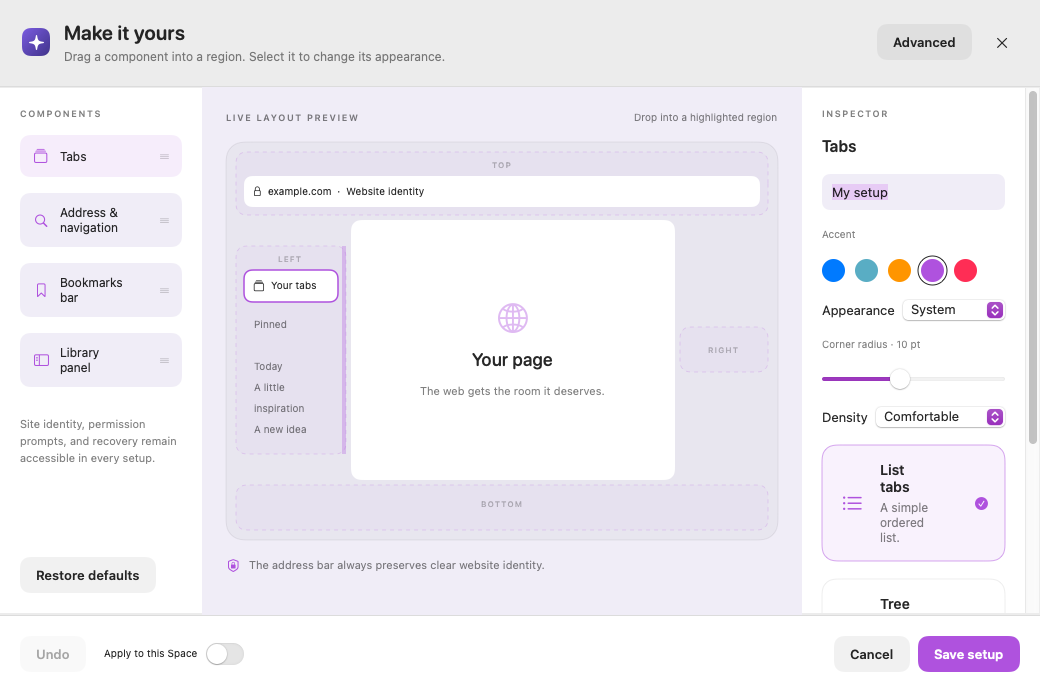
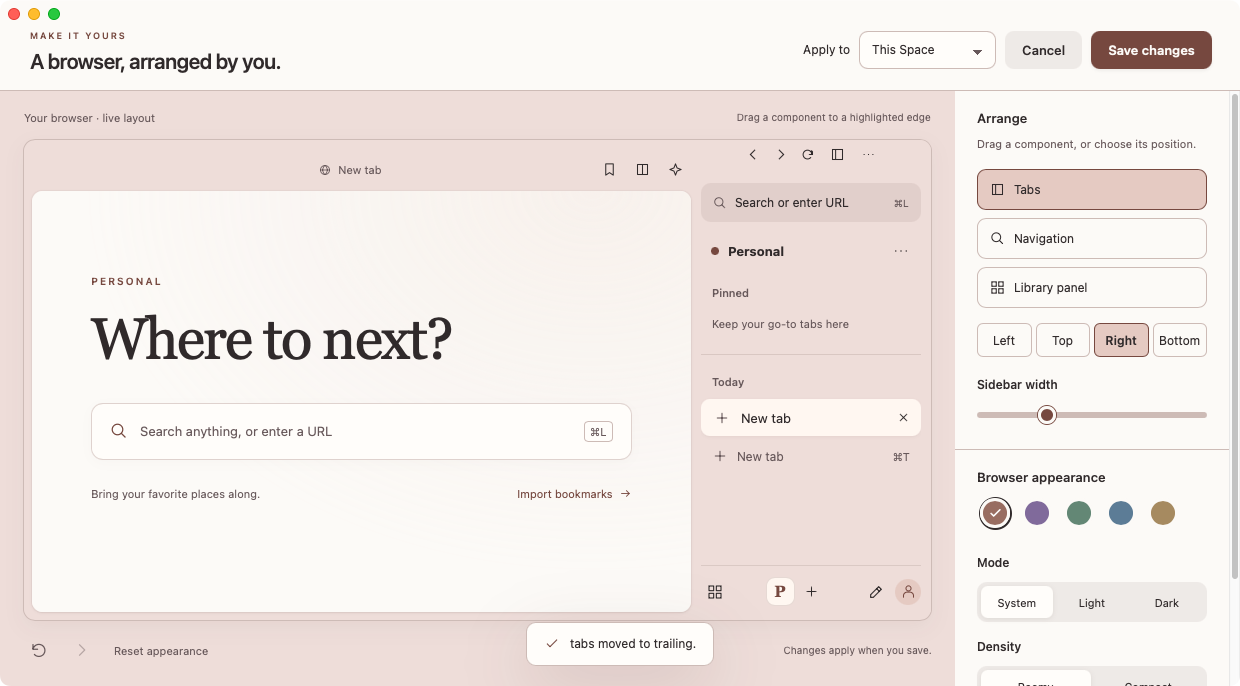
Polish compact panels and add full-width live layout preview

diff --git a/Sources/NeutrinoApp/RustShellAcceptance.swift b/Sources/NeutrinoApp/RustShellAcceptance.swift
@@ -53,6 +53,7 @@ import NeutrinoCore
         for screen in ["settings","modules","extensions","library"] {
             try await action(["op":"screen","value":screen,"section":"general"],web:web)
             guard (try await web.evaluateJavaScript(screen == "library" ? "!!document.querySelector('.library-panel')" : "!!document.querySelector('.utility-screen')")) as? Bool == true else { throw ValidationError("The \(screen) interface did not render.") }
+            try await recordScrollGeometry(web, label:screen)
             await AppSmokeTest.captureWindow(window,to:output.appendingPathComponent("Neutrino-\(screen).png"))
             try await action(["op":"escape"],web:web)
         }
@@ -109,6 +110,13 @@ import NeutrinoCore
         }
         _ = try await evaluatePage(page,"document.getElementById('neutrino-input-probe').style.opacity='0'; 'ok'")
         await AppSmokeTest.captureWindow(window,to:output.appendingPathComponent("Neutrino-editor-live-\(page.engineID.rawValue).png"))
+        try await recordScrollGeometry(web, label:"editor-\(page.engineID.rawValue)")
+        try await action(["op":"editor-preview-size"],web:web)
+        let expanded = try await web.evaluateJavaScript("document.querySelector('.editing-preview .native-page').getBoundingClientRect().width") as? Double
+        guard let expanded, expanded > preview + 80, model.activeWebTab === page,
+              abs(page.nativeView.bounds.width-expanded) < 3 else { throw ValidationError("Expanding the live preview lost its document or geometry.") }
+        await AppSmokeTest.captureWindow(window,to:output.appendingPathComponent("Neutrino-editor-expanded-\(page.engineID.rawValue).png"))
+        try await action(["op":"editor-preview-size"],web:web)
         try await action(["op":"editor-cancel"],web:web)
         guard model.activeWebTab === page,
               (page.nativeView.superview as? EngineViewContainer)?.isPreviewing == false else { throw ValidationError("Cancel did not restore browsing on the original page.") }
@@ -117,6 +125,10 @@ import NeutrinoCore
         try await Task.sleep(for:.milliseconds(100))
         guard try await inputProbeCount(page) > before else { throw ValidationError("Closing the editor did not restore page keyboard input.") }
         _ = try await evaluatePage(page,"document.getElementById('neutrino-input-probe')?.remove(); 'ok'")
+    }
+    private static func recordScrollGeometry(_ web:WKWebView,label:String) async throws {
+        let value = try await web.evaluateJavaScript("JSON.stringify([...document.querySelectorAll('*')].filter(e=>['auto','scroll'].includes(getComputedStyle(e).overflowY)&&e.scrollHeight>e.clientHeight).map(e=>({element:e.tagName+'.'+e.className,height:e.clientHeight,content:e.scrollHeight,top:e.scrollTop,rect:e.getBoundingClientRect().toJSON()})))")
+        print("Neutrino Rust scroll geometry \(label): \(value)")
     }
     private static func sendKey(to window:NSWindow) {
         for type in [NSEvent.EventType.keyDown,.keyUp] {

diff --git a/crates/neutrino-shell/assets/shell.css b/crates/neutrino-shell/assets/shell.css
@@ -52,3 +52,5 @@ body.dragging-tab .drag-hint{display:block}body.dragging-tab .empty-pins{outline
 @container(max-width:420px){.start-surface{padding:18px}.start-inner h1{font-size:32px;letter-spacing:-1px;margin-bottom:20px}.start-search{padding:12px;gap:8px}.start-search kbd{display:none}.start-hint{flex-direction:column;align-items:flex-start}.start-footer>span{display:none}}
 @container(max-height:340px){.start-surface{padding:14px}.start-inner{padding:4px 0 18px}.start-inner>.eyebrow{margin-bottom:10px}.start-inner h1{font-size:28px;margin-bottom:14px}.start-search{min-height:44px;padding:11px}.start-hint{margin-top:12px}.start-footer{font-size:10px}}
 .library-tabs button.selected{background:var(--accent-soft);color:var(--accent);box-shadow:inset 0 -2px var(--accent);border-radius:7px}.rail-footer .avatar>.icon{width:15px;height:15px}.rail-top{align-items:flex-start}.rail-top>.icon-button,.rail-top>.rail-navigation{margin-top:0}.rail-top .icon-button{height:28px}.import-card{display:grid;grid-template-columns:44px 1fr 18px;min-height:112px;text-align:left;gap:6px 14px}.import-card .import-symbol{grid-row:1/3}.import-card>strong{grid-column:2}.import-card>span:not(.import-symbol){grid-column:2}.import-card>.icon{grid-column:3;grid-row:1/3}
+
+.utility-screen[data-screen=extensions]{height:auto;max-height:100%;width:min(620px,100%)}.utility-screen[data-screen=extensions] .extensions-content{flex:0 1 auto}.preview-caption{align-items:center;min-height:32px;padding-bottom:10px}.preview-size{display:inline-flex;align-items:center;gap:6px;padding:5px 7px;margin:-5px -7px -5px 0;border-radius:6px;color:var(--muted);font-size:11px;white-space:nowrap}.preview-size .icon{width:13px;height:13px}.editor-inspector[hidden]{display:none}.editor-toast{bottom:76px;pointer-events:none;max-width:calc(100% - 70px)}

diff --git a/crates/neutrino-shell/src/render.rs b/crates/neutrino-shell/src/render.rs
@@ -258,7 +258,7 @@ pub fn render(s: &Shell) -> Markup {
     };
     html! {div class="app-shell" data-mode=(mode) data-accent=(accent) data-density=(text(&s.config()["theme"],"density")) {
         @if flag(&s.snapshot,"downloadsWindow"){main class="downloads-window"{header{h1{"Downloads"}(button("Close downloads","escape","close"))}(library(s))}} @else if s.onboarding(){(setup(s))} @else if s.screen=="editor"{(editor(s))} @else {(browser(s,false))
-            @if !["browse","library"].contains(&s.screen.as_str()) {div class="screen-scrim"{section class="utility-screen" role="dialog" aria-modal="true" aria-label=(s.screen.as_str()){
+            @if !["browse","library"].contains(&s.screen.as_str()) {div class="screen-scrim"{section class="utility-screen" data-screen=(s.screen.as_str()) role="dialog" aria-modal="true" aria-label=(s.screen.as_str()){
                 header class="utility-header"{div{div class="eyebrow"{"NEUTRINO"}h1{(match s.screen.as_str(){"settings"=>"Settings","library"=>"Your library","modules"=>"Make more of your browser","extensions"=>"Extensions","assistant"=>"A little help","reader"=>"Reader","recovery"=>"Recovery",_=>"Neutrino"})}}(button("Close","escape","close"))}
                 (utility(s))
             }}}
@@ -266,7 +266,7 @@ pub fn render(s: &Shell) -> Markup {
         @if s.palette{(palette(s))}
         @if !s.menu.is_empty(){(menu(s))}
         @let notice=if !s.notice.is_empty(){s.notice.as_str()}else{text(&s.snapshot,"notice")};
-        @if !notice.is_empty(){div class="toast" role="status"{(icon("check"))span{(notice)}@if notice.starts_with("Tab moved.") && !s.tab_undo.is_empty(){button data-op="undo-tabs"{"Undo"}}}}
+        @if !notice.is_empty(){div class=(if s.screen=="editor"{"toast editor-toast"}else{"toast"}) role="status"{(icon("check"))span{(notice)}@if notice.starts_with("Tab moved.") && !s.tab_undo.is_empty(){button data-op="undo-tabs"{"Undo"}}}}
     }}
 }
 fn setup(s: &Shell) -> Markup {
@@ -316,13 +316,13 @@ fn swatches(s: &Shell, setup: bool) -> Markup {
     html! {div class="swatches" role="group" aria-label="Accent color"{@for (value,label) in [("rose","Rose"),("purple","Iris"),("teal","Sage"),("blue","Ocean"),("orange","Sand")] {button class=(format!("swatch {} {}",value,if current==value{"selected"}else{""})) data-op=(if setup{"setup-field"}else{"editor-value"}) data-key="accent" data-value=(value) aria-label=(label) aria-pressed=((current==value).to_string()) title=(label){@if current==value{(icon("check"))}}}}}
 }
 fn editor(s: &Shell) -> Markup {
-    html! {div class="editor" {
+    html! {div class=(if s.expanded_preview{"editor expanded-preview"}else{"editor"}) {
         header class="editor-header"{div{span class="eyebrow"{"MAKE IT YOURS"}h1{"A browser, arranged by you."}}div class="editor-actions"{label class="save-scope"{span{"Apply to"}select data-scope="true" aria-label="Where to apply appearance"{option value="true" selected[s.apply_space]{"This Space"}option value="false" selected[!s.apply_space]{"Browser default"}}}(action("Cancel","escape",false))(action("Save changes","editor-save",true))}}
-        div class="editor-body"{section class="editor-stage" aria-label="Layout preview"{div class="preview-caption"{span{"Your browser · live layout"}span{"Drag a component to a highlighted edge"}}
+        div class="editor-body"{section class="editor-stage" aria-label="Layout preview"{div class="preview-caption"{span{"Your browser · live layout"}button class="preview-size" data-op="editor-preview-size" aria-expanded=(s.expanded_preview.to_string()) aria-controls="appearance-controls"{(icon(if s.expanded_preview{"sidebar"}else{"external"}))(if s.expanded_preview{"Show controls"}else{"Expand preview"})}}
             div class="editor-preview"{div class="preview-canvas" inert="" {(browser(s,true))}@for region in ["leading","trailing","top","bottom"]{div class=(format!("dock-target dock-{region}")) data-dock=(region){span{(match region{"leading"=>"Left","trailing"=>"Right","top"=>"Top",_=>"Bottom"})}}}}
             div class="editor-recovery"{button class="icon-button" data-op="editor-undo" title="Undo appearance change" aria-label="Undo appearance change" disabled[s.undo.is_empty()]{(icon("undo"))}button class="icon-button" data-op="editor-redo" title="Redo appearance change" aria-label="Redo appearance change" disabled[s.redo.is_empty()]{(icon("forward"))}button data-op="editor-reset"{"Reset appearance"}span{"Changes apply when you save."}}
         }
-        aside class="editor-inspector"{div class="inspector-section"{h2{"Arrange"}p{"Drag a component, or choose its position."}
+        aside class="editor-inspector" id="appearance-controls" hidden[s.expanded_preview]{div class="inspector-section"{h2{"Arrange"}p{"Drag a component, or choose its position."}
             @for (component,label,glyph) in [("tabs","Tabs","sidebar"),("navigation","Navigation","search"),("panels","Library panel","grid")] {div class=(if s.edit_component==component{"component selected"}else{"component"}) draggable="true" data-component=(component){button data-op="editor-select" data-value=(component){(icon(glyph))span{(label)}(icon("grip"))}}}
             div class="position-controls" role="group" aria-label="Component position"{@for (region,label) in [("leading","Left"),("top","Top"),("trailing","Right"),("bottom","Bottom")] { @let valid=s.edit_component=="tabs" || s.edit_component=="navigation"&&["top","bottom"].contains(&region) || s.edit_component=="panels"&&["leading","trailing"].contains(&region);button class=(if text(&s.config()["layout"],match s.edit_component.as_str(){"tabs"=>"tabs","navigation"=>"navigation",_=>"sidebar"})==region{"selected"}else{""}) aria-pressed=((text(&s.config()["layout"],match s.edit_component.as_str(){"tabs"=>"tabs","navigation"=>"navigation",_=>"sidebar"})==region).to_string()) data-op="dock" data-component=(s.edit_component.as_str()) data-region=(region) disabled[!valid]{(label)}}}
             @if s.edit_component=="tabs"{label class="field"{span{"Sidebar width"}input type="range" min="200" max="340" step="4" value=(s.config()["layout"]["tabsWidth"].as_f64().unwrap_or(240.)) data-editor="tabsWidth" aria-label="Sidebar width";}}
@@ -490,6 +490,10 @@ fn module_glyph(id: &str) -> &str {
 }
 fn module_description(module: &Value) -> &str {
     match text(module, "id") {
+        "org.neutrino.reader" => "Read articles in a quiet, focused view.",
+        "org.neutrino.focus" => {
+            "Give the page more room. Press Escape to bring your controls back."
+        }
         "org.neutrino.resource-monitor" => "See CPU and memory use while you browse.",
         "org.neutrino.memory-monitor" => "See how your Mac’s memory is being used.",
         _ => text(module, "description"),

diff --git a/crates/neutrino-shell/src/state.rs b/crates/neutrino-shell/src/state.rs
@@ -38,6 +38,7 @@ pub struct Shell {
     pub name: String,
     pub sidebar_hidden: bool,
     pub edit_component: String,
+    pub expanded_preview: bool,
     pub apply_space: bool,
     pub setup_busy: bool,
     adjustment: String,
@@ -64,6 +65,7 @@ impl Default for Shell {
             name: String::new(),
             sidebar_hidden: false,
             edit_component: "tabs".into(),
+            expanded_preview: false,
             apply_space: true,
             setup_busy: false,
             adjustment: String::new(),
@@ -404,6 +406,7 @@ impl Shell {
                     self.apply_space = request["value"].as_bool().unwrap_or(true);
                 }
                 "editor-value" => self.edit_value(&request),
+                "editor-preview-size" => self.expanded_preview = !self.expanded_preview,
                 "editor-end-adjustment" => {}
                 "dock" => self.dock(&request),
                 "editor-undo" => {

diff --git a/docs/GAUNTLET.md b/docs/GAUNTLET.md
@@ -27,6 +27,8 @@ Method adapted from [Gauntlet Loop](https://github.com/robonuggets/gauntlet-loop
 | `246343f` | Per-coordinator input suspension reaches CEF focus/mouse handling and the WK responder boundary. Width gestures are continuous and coalesce to one Undo step. Preview content responds to its available area and supports inert scrolling. Library selection, profile glyph, import card alignment and module labels revised. Split geometry acceptance now compares the actual pane, rather than the first pane in the view tree. | Native keyboard positive/negative controls and parent-window mouse rejection added; real Chromium mouse targeting is additionally checked through its child-window input flag, not independently proved by those parent-directed events. Verification pending. |
[1 lines of base64/hex data omitted]
 
+The final visual critic reviewed valid OS-composited `5e0e85c` screenshots: resting shell alignment, narrow containment, dark appearance, Library selection, import alignment, Profile glyph and duplicate editor navigation were resolved. The critic still preferred Arc's shell/split grouping and import composition; the limited Settings comparison favored Neutrino's displayed controls. Remaining findings were dense split pages in the 1024 px editor, adjacent native scroll tracks, technical Reader copy, a toast covering the editor footer, repeated split titles, and excess space in Extensions. Follow-up work adds an expanded live preview, shorter module descriptions, a compact Extensions panel and a toast above the footer. Native scroll geometry is recorded for the remaining scrollbar investigation. These changes do not turn the critic's Arc preference into a claimed win.
+
 The current editor keeps the original native page mounted while its frame follows the layout draft, addressing the UX critic’s preference for Arc’s contextual customization. Input to the page is paused during editing, and dragging hides it briefly to expose docking targets. Cancel restores normal interaction on the same document. Native acceptance must prove this behavior; a fixture image cannot. Follow-up gesture code uses a local counter on the private WK origin, preserves the active preview width through late acknowledgements, and forwards remaining wheel movement from an exhausted note list into the Library panel.
 
 ## Required evidence

diff --git a/README.md b/README.md
@@ -6,7 +6,7 @@ This repository is being rebuilt against a [confirmed product brief](docs/PRODUC
 
 Download compiled Apple Silicon builds from [GitHub Releases](https://github.com/starharbor2491/neutrino-browser/releases). Each Neutrino release includes a ZIP containing `Neutrino.app`, an offline DMG, and checksums. Published builds check GitHub for updates, download compatible newer versions, and install after a normal quit while retaining browsing data. Preview releases remain development builds with the limitations recorded in their release notes.
 
-Native captures of the first interface rebuild from [Apple Silicon CI](https://github.com/starharbor2491/neutrino-browser/actions/runs/38128463616):
+Native captures of the Rust interface from [Apple Silicon CI](https://github.com/starharbor2491/neutrino-browser/actions/runs/38241270198) (`5e0e85c`). These show the compiled app; interaction and release gates are recorded separately in [Testing](docs/TESTING.md):
 
 ![Neutrino's custom workspace shell](docs/images/neutrino-shell.png)
 
@@ -14,6 +14,8 @@ Native captures of the first interface rebuild from [Apple Silicon CI](https://g
 <summary>View the docking editor</summary>
 
 ![Neutrino's docking editor with visible exit and Save controls](docs/images/neutrino-editor.png)
+
+![Neutrino’s guided bookmark import](docs/images/neutrino-setup.png)
 
 </details>
 
